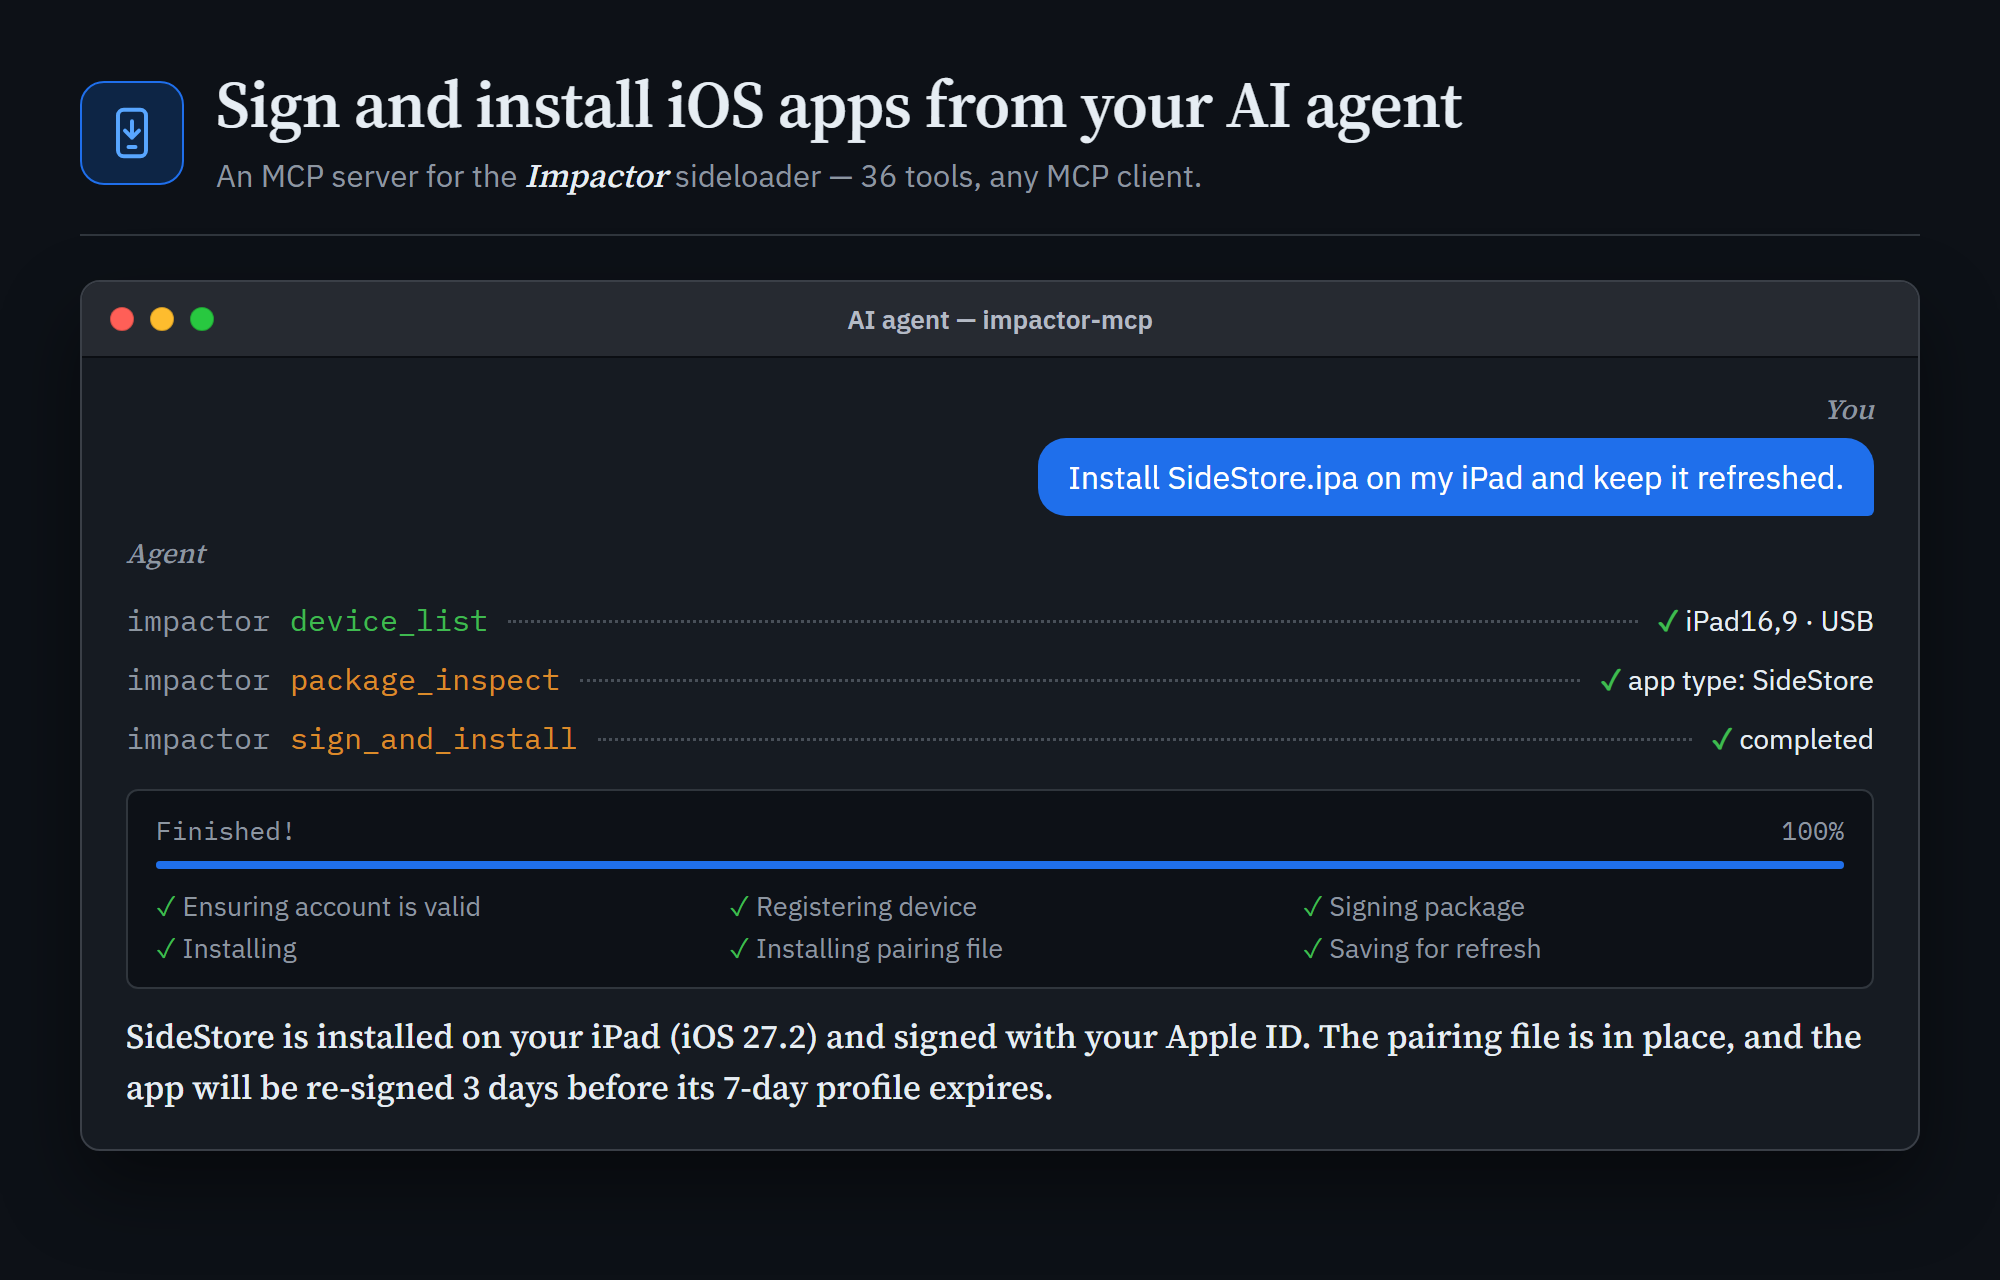
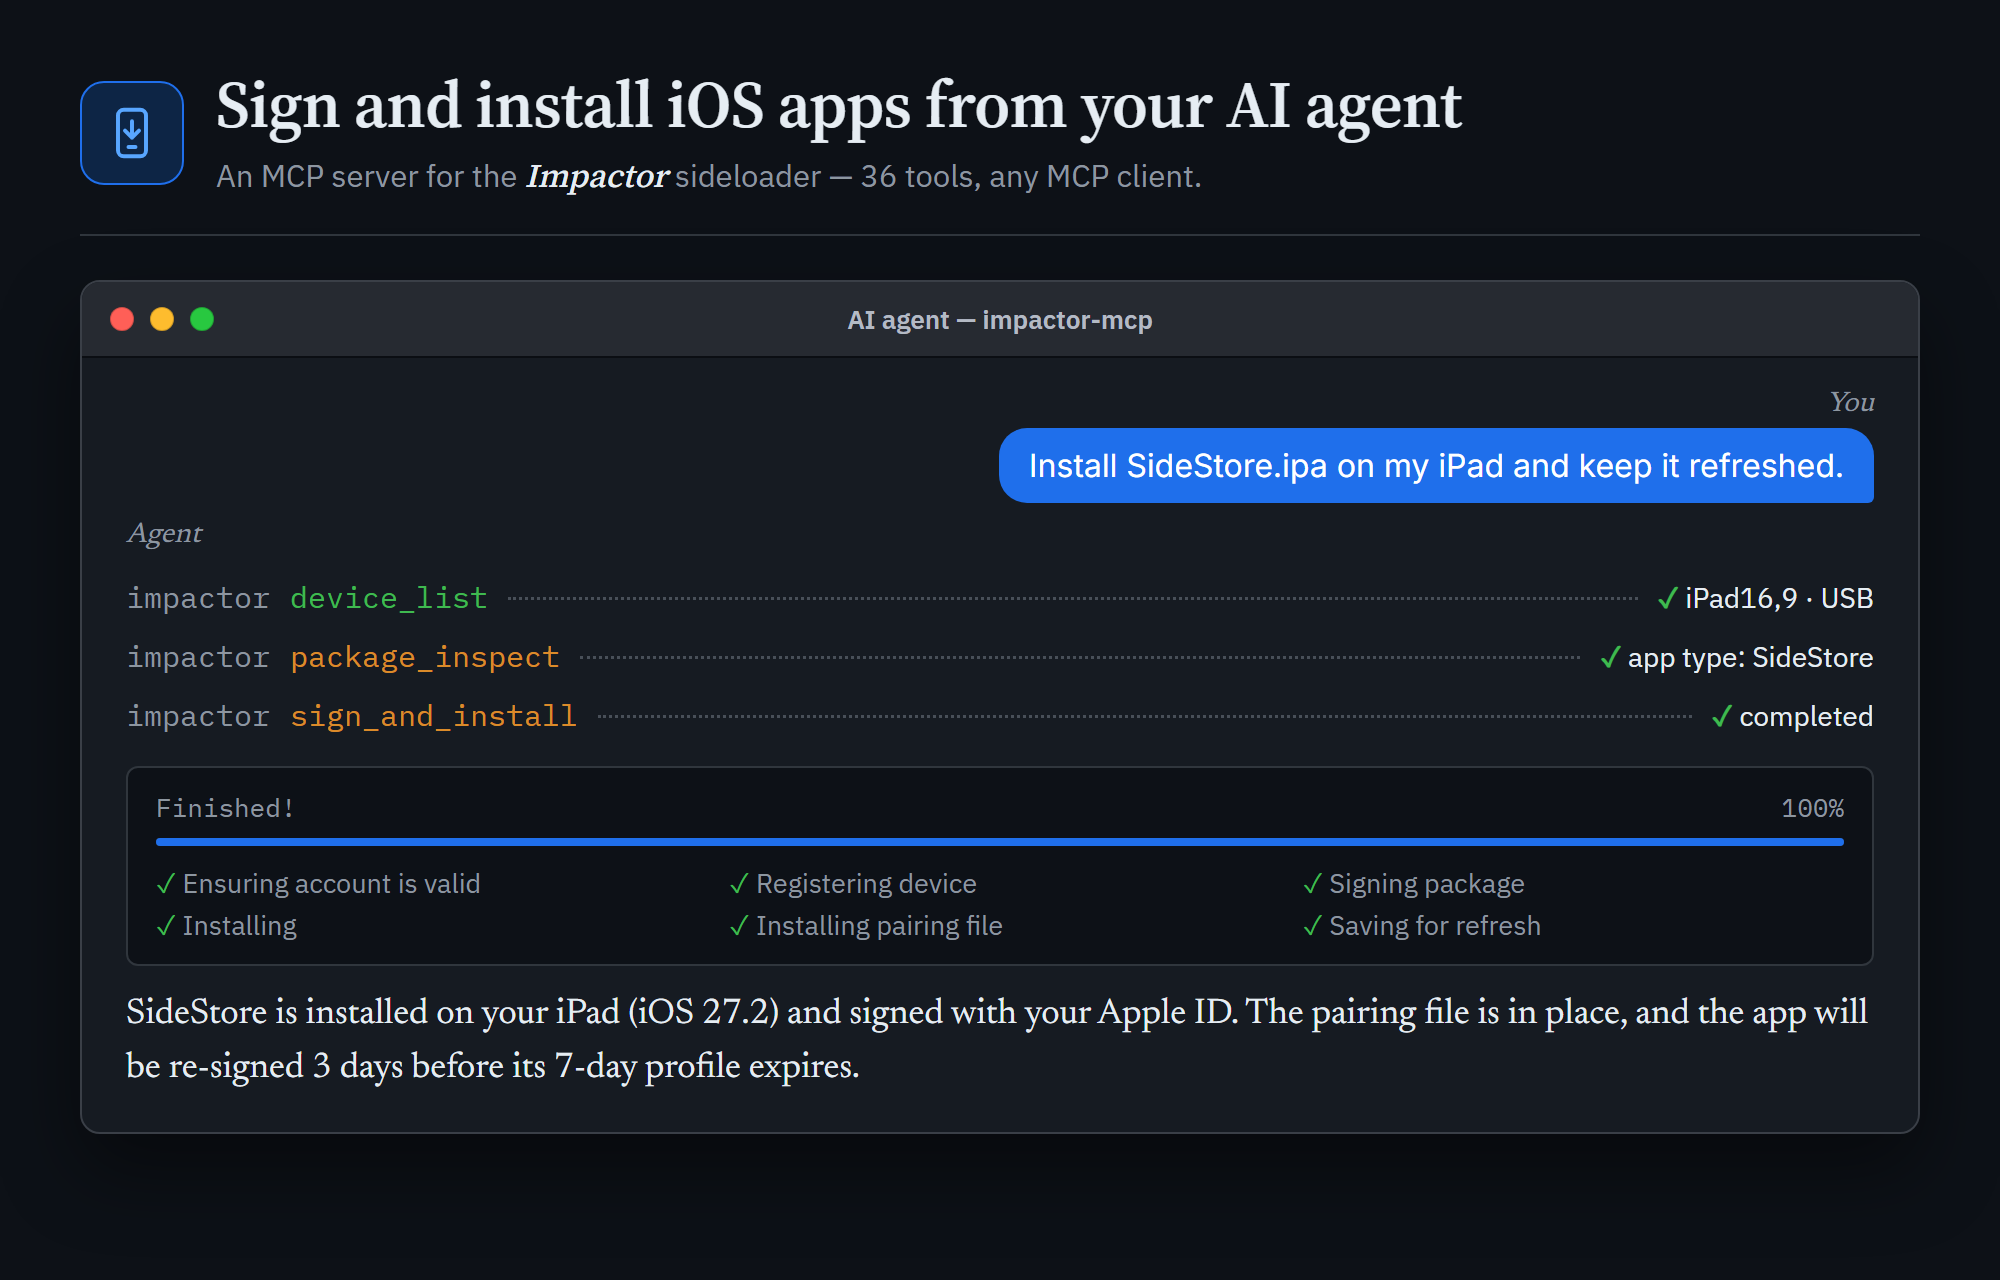
Rename README images and use Claude-style chat fonts in the header
- session -> workflow, tools -> tool-reference,
  architecture -> system-diagram (new URLs, no stale caches)
- Header chat: Newsreader (serif) for agent replies, Inter for the user
  message, as open substitutes for Claude's own typefaces

Changed region(s): [[0.062, 0.4062, 0.93, 0.875], [0.496, 0.3125, 0.93, 0.4062], [0.93, 0.875, 0.961, 0.9062]]

diff --git a/docs/assets/src/header.html b/docs/assets/src/header.html
@@ -3,7 +3,7 @@
 <head>
 <meta charset="utf-8">
 <link rel="preconnect" href="https://fonts.googleapis.com">
-<link href="https://fonts.googleapis.com/css2?family=Source+Serif+4:opsz,wght@8..60,500;8..60,600&family=IBM+Plex+Sans:wght@400;500;600&family=IBM+Plex+Mono:wght@400;500&display=block" rel="stylesheet">
+<link href="https://fonts.googleapis.com/css2?family=Source+Serif+4:opsz,wght@8..60,500;8..60,600&family=IBM+Plex+Sans:wght@400;500;600&family=IBM+Plex+Mono:wght@400;500&family=Newsreader:opsz,wght@6..72,400;6..72,500&family=Inter:wght@400;500&display=block" rel="stylesheet">
 <style>
   /* Editorial layout on the GitHub-dark palette used by the other README images */
   * { box-sizing: border-box; margin: 0; padding: 0; }
@@ -23,9 +23,10 @@
   .bar i:nth-child(1) { background: #ff5f57; } .bar i:nth-child(2) { background: #febc2e; } .bar i:nth-child(3) { background: #28c840; }
   .bar span { position: absolute; left: 0; right: 0; text-align: center; font-size: 13px; font-weight: 600; color: #b4bac4; }
   .msgs { padding: 16px 22px 18px; display: flex; flex-direction: column; gap: 9px; }
-  .role { font-family: var(--serif); font-style: italic; font-size: 14px; color: var(--mute); }
+  .role { font-family: "Newsreader", Georgia, serif; font-style: italic; font-size: 14px; color: var(--mute); }
   .role.r { align-self: flex-end; }
-  .user { align-self: flex-end; background: var(--blue); color: #fff; padding: 9px 15px; border-radius: 14px 14px 3px 14px; font-size: 16px; margin-top: -4px; }
+  /* Chat text: open substitutes for Claude's fonts — serif for replies, sans for user messages */
+  .user { align-self: flex-end; background: var(--blue); color: #fff; padding: 9px 15px; border-radius: 14px 14px 3px 14px; font-family: "Inter", sans-serif; font-size: 16px; margin-top: -4px; }
   .tool { display: flex; align-items: baseline; gap: 10px; font-family: var(--mono); font-size: 15px; padding: 5px 0; }
   .tool .ns { color: var(--mute); }
   .tool .fill { flex: 1; border-bottom: 1.5px dotted #484f58; transform: translateY(-4px); }
@@ -37,7 +38,7 @@
   .bar2 { height: 4px; background: var(--rule); border-radius: 2px; } .bar2 div { height: 100%; width: 100%; background: var(--blue); border-radius: 2px; }
   .steps { margin-top: 9px; display: grid; grid-template-columns: repeat(3, 1fr); gap: 3px 16px; font-size: 13.5px; color: var(--mute); }
   .steps span::before { content: "✓ "; color: var(--green); }
-  .say { font-family: var(--serif); font-size: 17px; line-height: 1.5; margin-top: 2px; }
+  .say { font-family: "Newsreader", Georgia, serif; font-size: 18px; line-height: 1.5; margin-top: 2px; }
 </style>
 </head>
 <body>

diff --git a/README.md b/README.md
@@ -19,9 +19,9 @@ need a modified build of the app. Accounts you log into in the app show up here 
 
 One request from the agent becomes the same steps you would click through in the Impactor app:
 
-![Tool calls and output for a single install request](docs/assets/session.png)
+![Tool calls and output for a single install request](docs/assets/workflow.png)
 
-![Architecture: agent, impactor-mcp, Apple Developer services, devices and the Impactor app](docs/assets/architecture.png)
+![Architecture: agent, impactor-mcp, Apple Developer services, devices and the Impactor app](docs/assets/system-diagram.png)
 
 ## Install
 
@@ -89,7 +89,7 @@ Any other MCP client (Cursor, VS Code, Windsurf, Cline, ...) uses the same stdio
 
 ## Tools
 
-![Tool reference: all 36 tools in six groups](docs/assets/tools.png)
+![Tool reference: all 36 tools in six groups](docs/assets/tool-reference.png)
 
 | Area | Tools |
 | --- | --- |
